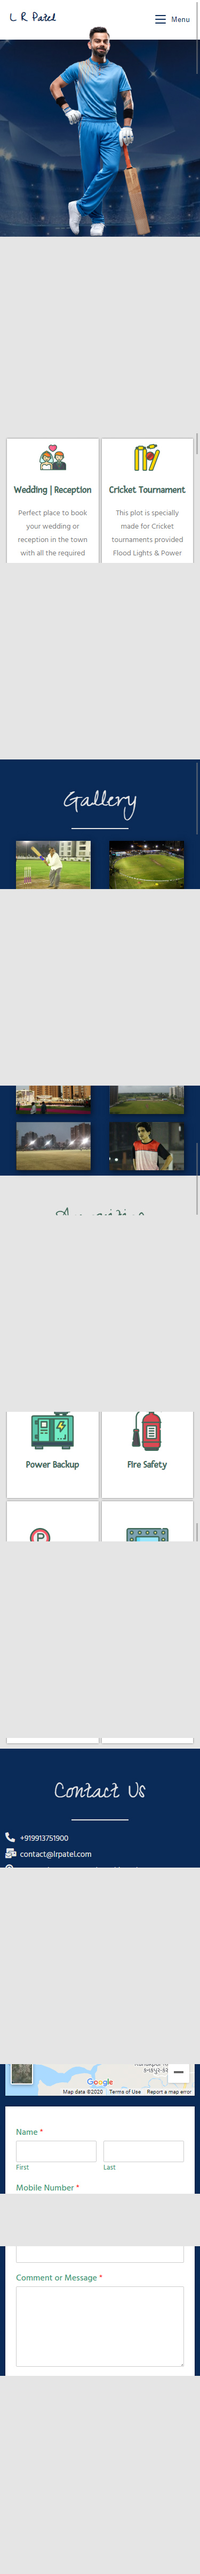
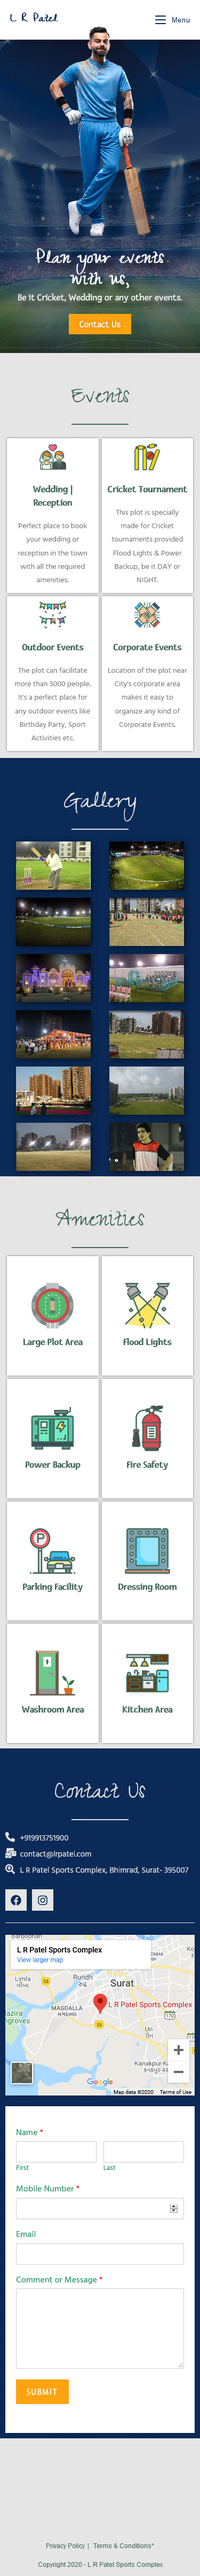
fixed keyurvaghela.com post and added second post lrpatel.com

diff --git a/lrpatel.html b/lrpatel.html
@@ -9,7 +9,7 @@
     />
     <link rel="stylesheet" href="/css/default.css" />
 
-    <title>www.keyurvaghela.com</title>
+    <title>Prashant Patel</title>
   </head>
   <body>
     <a href="/index.html">
@@ -25,29 +25,32 @@
         </div>
     </a>
 
-    <section class="s2">
+    <section class="">
         <div class="main-container">
-            <div>
+            <div class="text-area">
                 <h4>About Website</h4>
-                <p>This website is done simply using Wordpress with few lines of custom html code and additional css to beutify it more.</p>
+                <p>This website is done simply using Wordpress with few lines of custom html code and additional css to make it more beautiful.</p>
+                <a target="_blank" href="https://lrpatel.com/">Live Demo</a>
             </div>
             
-            <div>
-                <a target="_blank" href="https://keyurvaghela.com/">Live Demo</a>
+            <div class="project-wrapper">
                 <div class="screenshots" >
-                    <img
-                    class="card-web"
-                    id="web-img"
-                    src="assets/keyurvaghela-web.jpg"
-                    alt="social-img"
-                    
-                    />
-                    <img
-                    class="card-mobile"
-                    id="mobile-img"
-                    src="assets/keyurvaghela-mobile.jpg"
-                    alt="social-img"
-                    />
+                    <div class="web">
+                        <img
+                            class="image-web"
+                            id="web-img"
+                            src="assets/lrpatel-web.jpg"
+                            alt="social-img"
+                        />
+                    </div>
+                    <div class="mobile">
+                        <img
+                            class="image-mobile"
+                            id="mobile-img"
+                            src="assets/lrpatel-mobile.jpg"
+                            alt="social-img"
+                        />
+                    </div>
                 </div>   
             </div>
         </div>

diff --git a/keyurvaghela.html b/keyurvaghela.html
@@ -1,0 +1,61 @@
+<!DOCTYPE html>
+<html lang="en">
+  <head>
+    <meta charset="UTF-8" />
+    <meta name="viewport" content="width=device-width, initial-scale=1.0" />
+    <link
+      href="https://fonts.googleapis.com/css2?family=Roboto+Mono:wght@500&family=Russo+One&display=swap"
+      rel="stylesheet"
+    />
+    <link rel="stylesheet" href="/css/default.css" />
+
+    <title>Prashant Patel</title>
+  </head>
+  <body>
+    <a href="/index.html">
+        <div class="nav-wrapper">
+            <div class="dots-wrapper">
+                <div id="dot-1" class="browser-dot"></div>
+                <div id="dot-2" class="browser-dot"></div>
+                <div id="dot-3" class="browser-dot"></div>
+            </div>
+            <ul id="navigation">
+                <li><a href="index.html#contact-form">Contact</a></li>
+            </ul>
+        </div>
+    </a>
+
+    <section class="">
+        <div class="main-container">
+            <div class="text-area">
+                <h4>About Website</h4>
+                <p>This website is done simply using Wordpress with few lines of custom html code and additional css to beutify it more.</p>
+                <a target="_blank" href="https://keyurvaghela.com/">Live Demo</a>
+            </div>
+            
+            <div class="project-wrapper">
+                <div class="screenshots" >
+                    <div class="web">
+                        <img
+                            class="image-web"
+                            id="web-img"
+                            src="assets/keyurvaghela-web.jpg"
+                            alt="social-img"
+                    
+                        />
+                    </div>
+                    <div class="mobile">
+                        <img
+                            class="image-mobile"
+                            id="mobile-img"
+                            src="assets/keyurvaghela-mobile.jpg"
+                            alt="social-img"
+                        />
+                    </div>
+                </div>   
+            </div>
+        </div>
+      </section>
+
+  </body>
+</html>

diff --git a/index.html b/index.html
@@ -77,8 +77,8 @@
             <h4>More About Me</h4>
             <p>Learning and doing projects with JavaScript & React</p>
             <p>
-              FullStack Developer with primary focus on React.js + Node.js:
-              <a href="" target="_blank">Download Resume</a>
+              FullStack Developer with primary focus on React.js + Node.js.
+              <!-- <a href="" target="_blank">Download Resume</a> -->
             </p>
             <div id="skills">
               <ul>
@@ -116,22 +116,22 @@
         
           <div>
             <div class="post">
-              <img id="thumbnail" src="assets/keyurvaghela-web.png" />
+              <img id="thumbnail" src="assets/keyurvaghela-web.jpg" />
               <div class="post-preview">
                 <h6 class="post-title">www.keyurvaghela.com</h6>
-                <p class="post-intro">This is a sentance. Some more text.</p>
-                <a target="_blank" href="/post.html">Read More</a>
+                <p class="post-intro">Done using Wordpress...</p>
+                <a target="_blank" href="/keyurvaghela.html">Read More</a>
             </div>
           </div>
 
           </div>
           <div>
             <div class="post">
-              <img id="thumbnail" src="assets/lrpatel-web.png" />
+              <img id="thumbnail" src="assets/lrpatel-web.jpg" />
               <div class="post-preview">
                 <h6 class="post-title">www.lrpatel.com</h6>
-                <p class="post-intro">This is a sentance. Some more text.</p>
-                <a target="_blank" href="#">Read More</a>
+                <p class="post-intro">Done using Wordpress...</p>
+                <a target="_blank" href="lrpatel.html">Read More</a>
               </div>
             </div>
           </div>

diff --git a/css/default.css b/css/default.css
@@ -382,6 +382,44 @@ h6 {
   border: none;
 }
 
+/* Post- Read More Pages */
+
+.text-area {
+  margin-bottom: 20px;
+}
+
+.project-wrapper {
+  display: flex;
+  flex-direction: column;
+  align-items: center;
+}
+
+.screenshots {
+  display: grid;
+  grid-template-columns: 1fr 1fr 1fr;
+  grid-template-areas: "web web mobile";
+  grid-gap: 20px;
+  justify-items: center;
+}
+
+.web {
+  grid-area: web;
+  max-width: 500px;
+  height: 370px;
+  overflow: scroll;
+}
+
+.mobile {
+  max-width: 250px;
+  grid-area: mobile;
+  height: 370px;
+  overflow: scroll;
+}
+
+.screenshots img {
+  width: 100%;
+}
+
 @media screen and (max-width: 1200px) {
   .main-container {
     width: 95%;
@@ -401,16 +439,9 @@ h6 {
     justify-content: center;
     padding-top: 0;
   }
-}
 
-/* Post- Read More Pages */
-
-.screenshots {
-  display: grid;
-  grid-template-columns: 3fr 1fr;
-  grid-gap: 20px;
-}
-
-.screenshots img {
-  width: 100%;
+  .screenshots {
+    grid-template-columns: 1fr;
+    grid-template-areas: "web" "mobile";
+  }
 }
